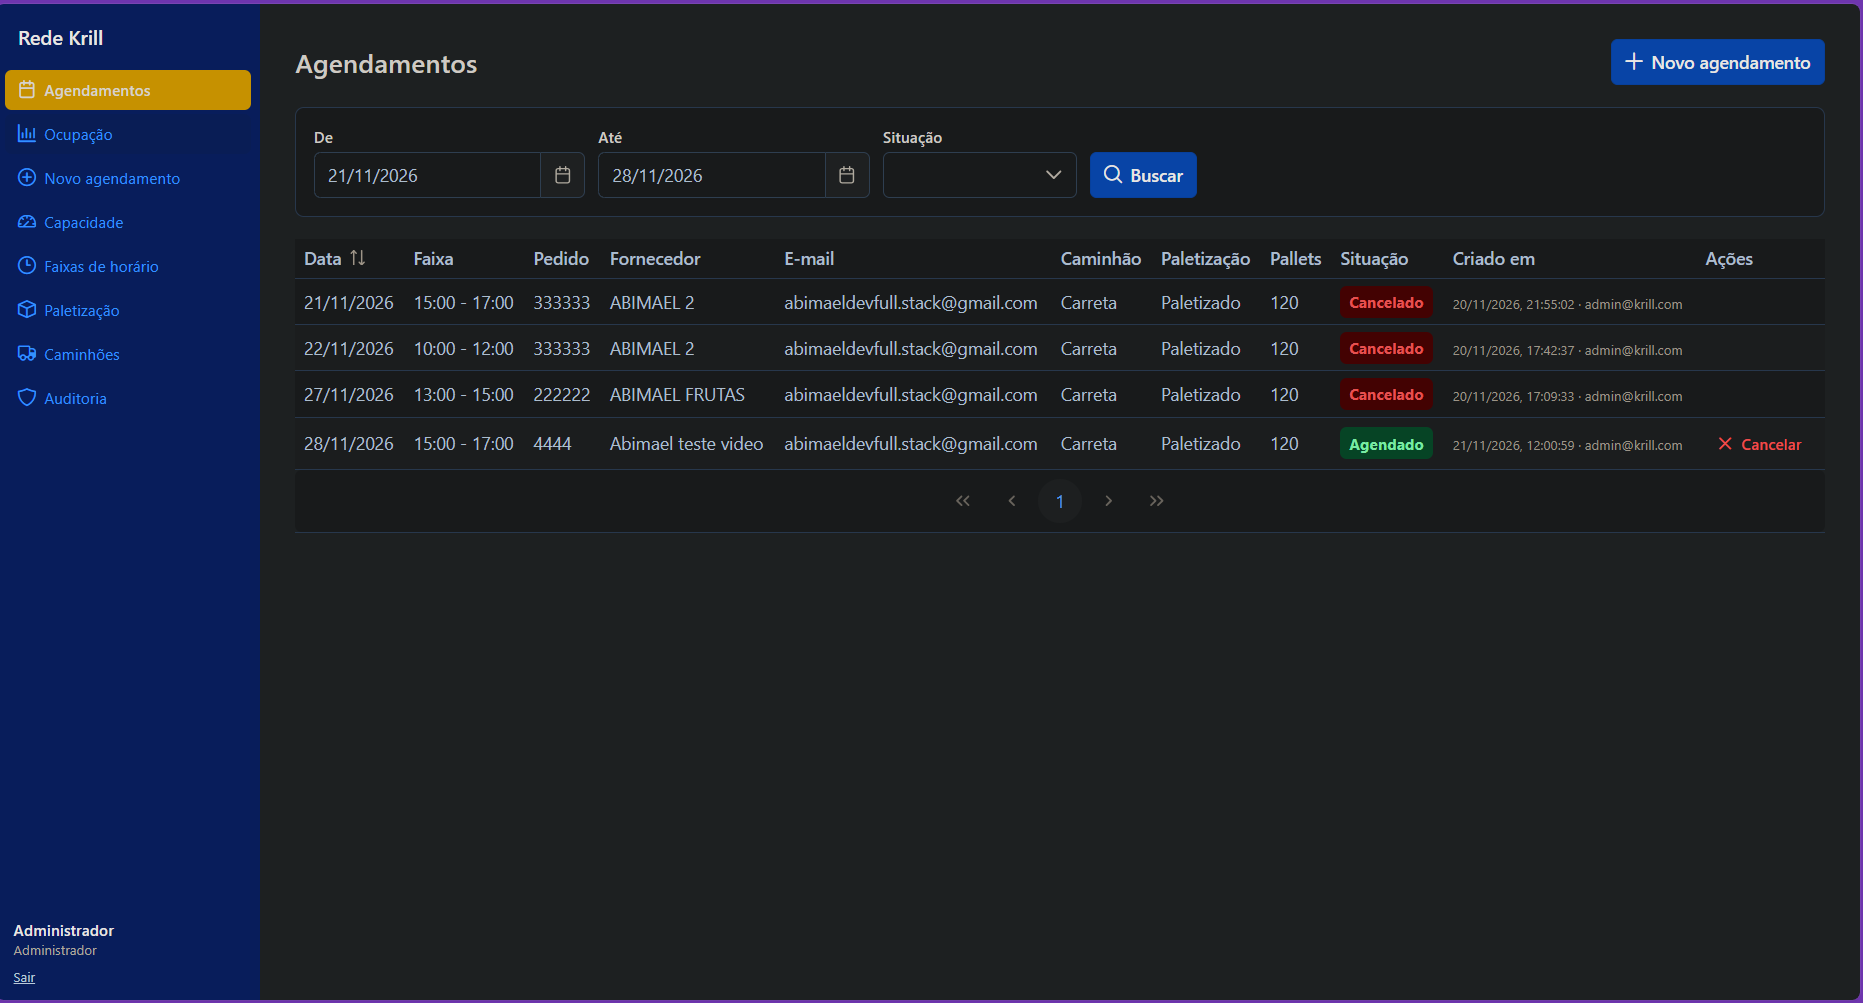
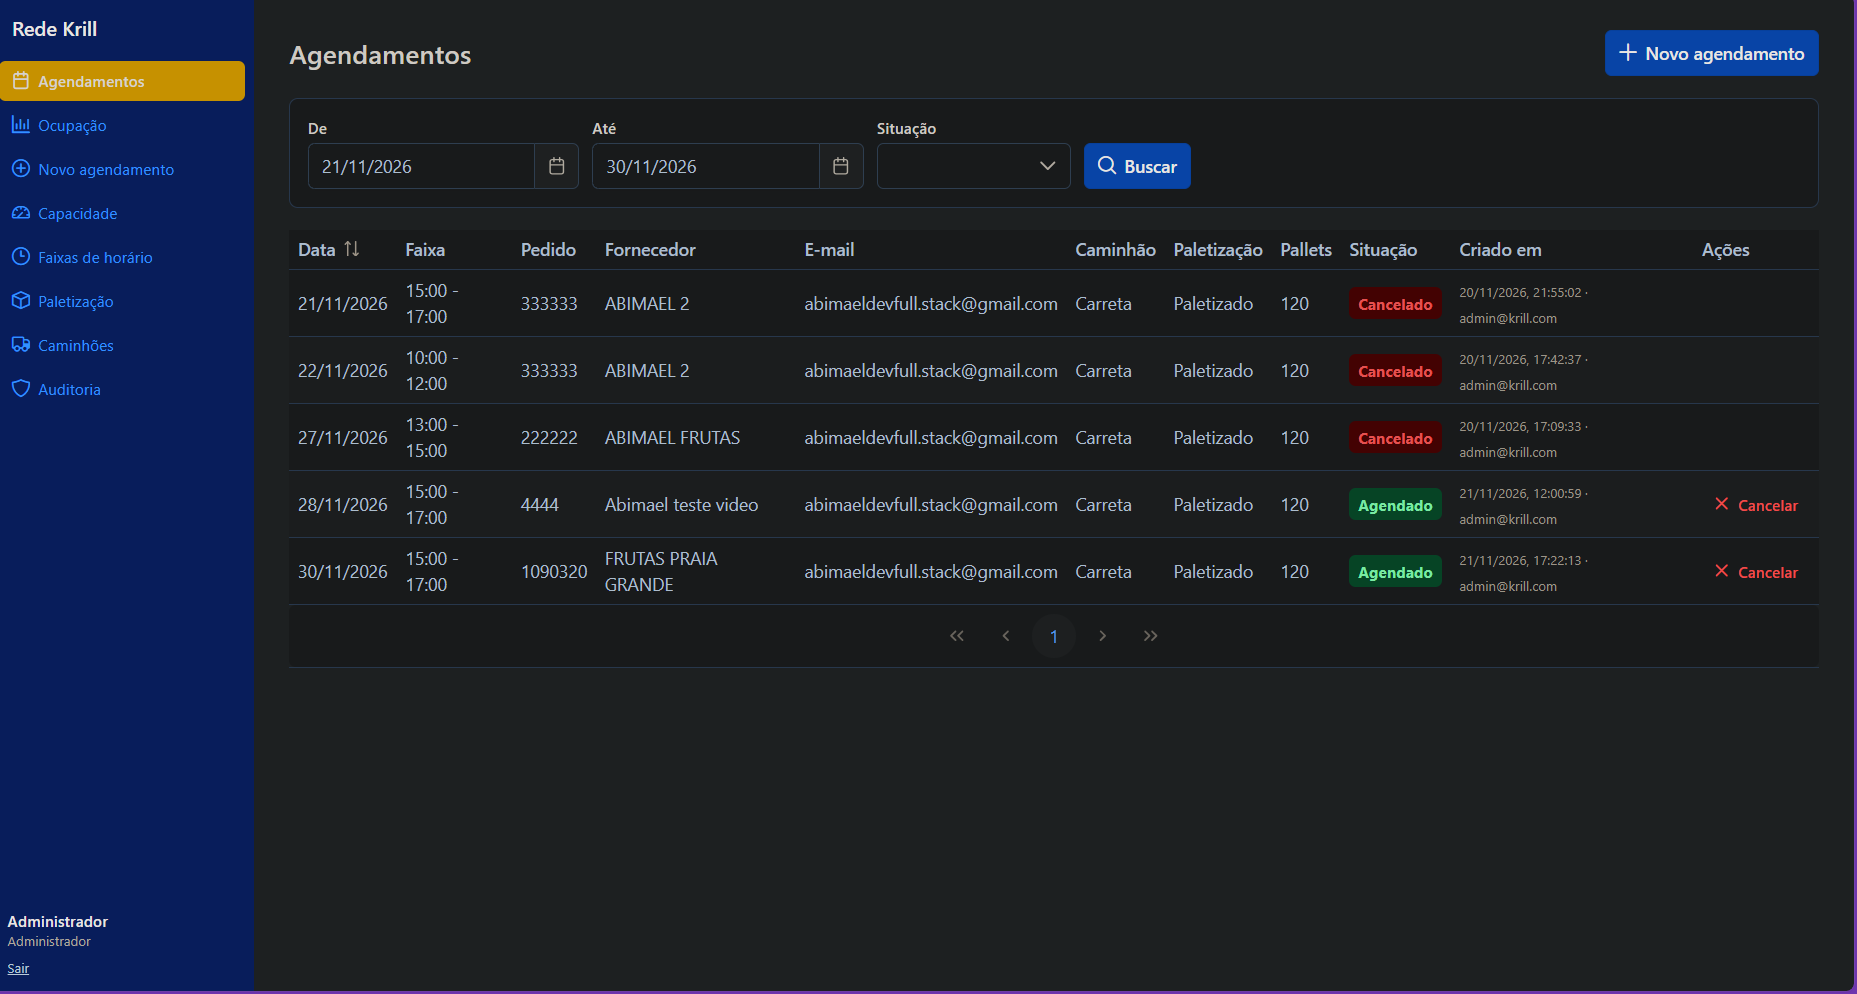
docs: atualiza print dos agendamentos e reduz tamanho das imagens

diff --git a/README.md b/README.md
@@ -10,20 +10,20 @@ ocupação por **dia** e por **faixa horária**. Frontend e backend são separad
 ## Telas do sistema
 
 ### Login
-![Tela de login](docs/img/login.png)
+<img src="docs/img/login.png" alt="Tela de login" width="600">
 
 ### Agendamentos
 Lista de agendamentos com filtro por período e situação. Mostra data, faixa, pedido, fornecedor, e-mail, caminhão,
 paletização, quantidade de pallets, situação e quem criou. O botão **Novo agendamento** abre o formulário de cadastro,
 e agendamentos ativos podem ser cancelados.
 
-![Lista de agendamentos](docs/img/agendamentos.png)
+<img src="docs/img/agendamentos.png" alt="Lista de agendamentos" width="600">
 
 ### E-mail de confirmação enviado ao fornecedor
 Ao salvar um agendamento, o sistema envia ao e-mail do fornecedor a confirmação com os dados do agendamento. Em
 desenvolvimento, as mensagens são recebidas pelo Mailpit (http://localhost:8025).
 
-![E-mails de confirmação no Mailpit](docs/img/email-fornecedor.png)
+<img src="docs/img/email-fornecedor.png" alt="E-mails de confirmação no Mailpit" width="600">
 
 ## Stack
 
